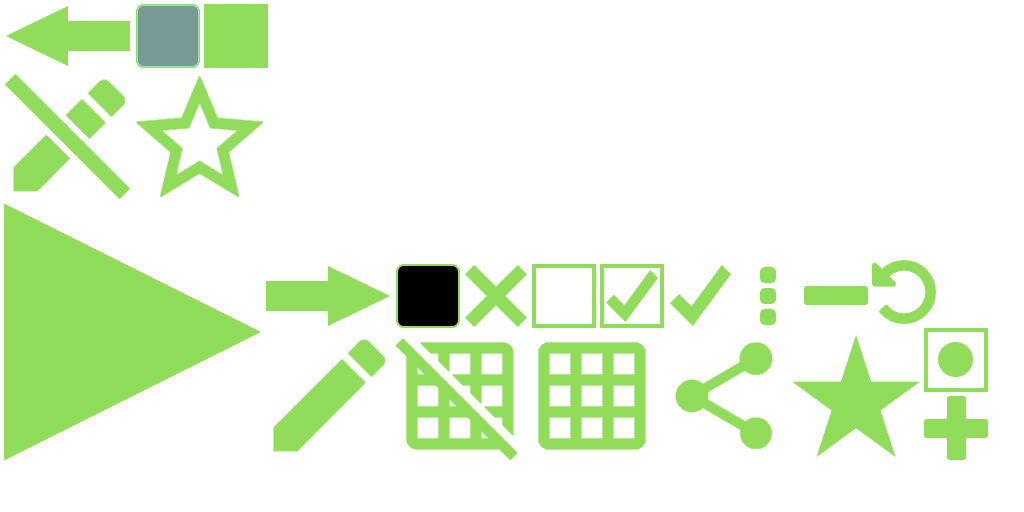
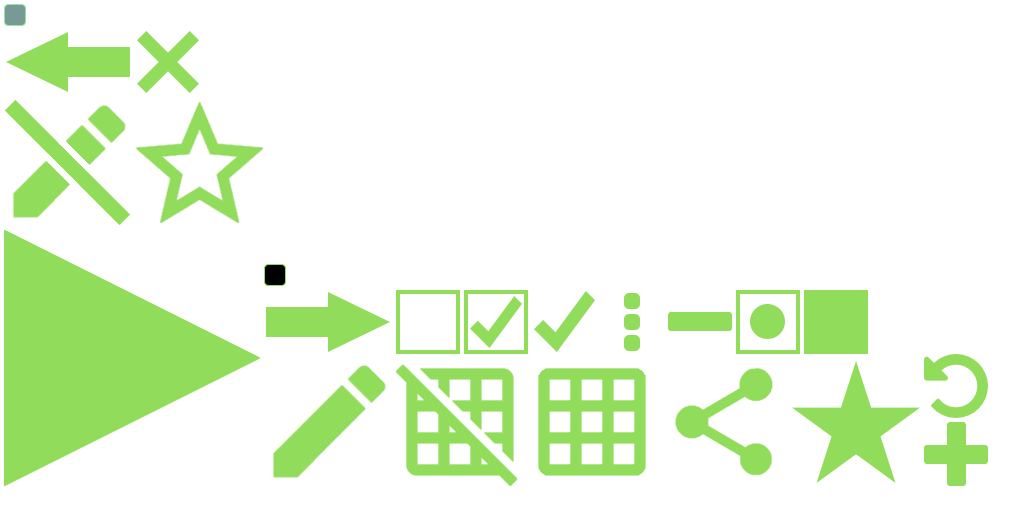
Fixeld some layout issues: smaller button nine patches, SettingsScreen now works properly with various display sizes, LevelSelector screen bug.

Changed region(s): [[0.0, 0.0, 0.9688, 0.9688], [0.5312, 0.7812, 0.625, 0.8125]]

diff --git a/core/src/com/mare5x/chargehockey/settings/SettingsScreen.java b/core/src/com/mare5x/chargehockey/settings/SettingsScreen.java
@@ -57,7 +57,7 @@ public class SettingsScreen extends ScrollableMenuScreen {
         trace_path_checkbox = new SettingCheckBox(game, "TRACE PUCK PATH", settings_file.getBoolean(SETTINGS_KEY.TRACE_PATH));
 
         add_back_button();
-        table.add().expand().colspan(2).row();
+        table.add().expand().row();
 
         game_speed_slider.add_to_table(table);
         charge_size_slider.add_to_table(table);
@@ -66,9 +66,9 @@ public class SettingsScreen extends ScrollableMenuScreen {
         forces_checkbox.add_to_table(table);
         trace_path_checkbox.add_to_table(table);
 
-        table.add(defaults_button).pad(15).minHeight(MIN_BUTTON_HEIGHT).colspan(2).center().fillX().row();
+        table.add(defaults_button).pad(15).minHeight(MIN_BUTTON_HEIGHT).center().fillX().row();
 
-        table.add().colspan(2).expand();
+        table.add().expand();
     }
 
     @Override
@@ -122,12 +122,14 @@ public class SettingsScreen extends ScrollableMenuScreen {
         dispose();
     }
 
-    /** Encapsulates a unified checkbox. Use with add_to_table(). DO NOT use it as an Actor. */
-    private static class SettingCheckBox extends Actor {
+    /** Encapsulates a unified checkbox. Use with add_to_table(). */
+    private static class SettingCheckBox extends Table {
         private final Button checkbox;
         private final TextButton text_button;
 
         SettingCheckBox(final ChargeHockeyGame game, String label, boolean checked) {
+            super();
+
             checkbox = new Button(game.skin, "checkbox");
             checkbox.setChecked(checked);
             checkbox.pad(10);
@@ -142,11 +144,14 @@ public class SettingsScreen extends ScrollableMenuScreen {
             });
 
             text_button.getLabel().setWrap(true);
+
+            add(text_button).space(15).minHeight(MIN_BUTTON_HEIGHT).center();
+            add(checkbox).space(15).size(MIN_BUTTON_HEIGHT).expandX().center();
         }
 
         void add_to_table(Table parent) {
-            parent.add(text_button).pad(15).minHeight(MIN_BUTTON_HEIGHT).width(Value.percentWidth(0.6f, parent)).center();
-            parent.add(checkbox).pad(15).size(MIN_BUTTON_HEIGHT).expandX().center().row();
+            getCell(text_button).width(Value.percentWidth(0.6f, parent));
+            parent.add(this).pad(15).fillX().expandX().row();
         }
 
         void set_checked(boolean checked) {
@@ -179,12 +184,16 @@ public class SettingsScreen extends ScrollableMenuScreen {
                     return false;
                 }
             });
+
+            add(label).space(15).fill().center();
+            add(slider).space(15).expandX().center();
         }
 
         void add_to_table(Table parent) {
-            add(label).pad(15).width(Value.percentWidth(0.4f, parent)).fill().center();
-            add(slider).pad(15).width(Value.percentWidth(0.4f, parent)).expandX().center();
-            parent.add(this).colspan(2).fillX().row();
+            getCell(label).width(Value.percentWidth(0.4f, parent));
+            getCell(slider).width(Value.percentWidth(0.4f, parent));
+
+            parent.add(this).pad(15).fillX().expandX().row();
         }
 
         void set_text(String text) {
@@ -240,6 +249,15 @@ public class SettingsScreen extends ScrollableMenuScreen {
                     scale_charge();
                 }
             });
+
+            // remove parent layout
+            clear();
+            reset();
+            remove();
+
+            add(label).space(15).fill().center();
+            add(slider).space(15).expandX().center();
+            add(charge).space(15).size(Value.percentHeight(1, slider)).expandX().center();
         }
 
         private void scale_charge() {
@@ -258,10 +276,9 @@ public class SettingsScreen extends ScrollableMenuScreen {
 
         @Override
         void add_to_table(Table parent) {
-            add(label).pad(15).width(Value.percentWidth(0.4f, parent)).fill().center();
-            add(slider).pad(15).width(Value.percentWidth(0.3f, parent)).expandX().center();
-            add(charge).pad(15).size(Value.percentHeight(1, slider)).expandX().center();
-            parent.add(this).colspan(2).fillX().row();
+            getCell(label).width(Value.percentWidth(0.4f, parent));
+            getCell(slider).width(Value.percentWidth(0.3f, parent));
+            parent.add(this).pad(15).fillX().expandX().row();
         }
     }
 }

diff --git a/core/src/com/mare5x/chargehockey/editor/FilePickerScreen.java b/core/src/com/mare5x/chargehockey/editor/FilePickerScreen.java
@@ -28,7 +28,7 @@ class FilePickerScreen extends BaseMenuScreen {
         this.parent_screen = parent_screen;
 
         final Label path_label = new Label("", game.skin);
-        path_label.setFontScale(0.75f);
+        path_label.setFontScale(0.81f);
         path_label.setWrap(true);
 
         final FilePicker file_picker;
@@ -80,10 +80,10 @@ class FilePickerScreen extends BaseMenuScreen {
         });
 
         add_back_button(2);
-        table.add(path_label).colspan(2).pad(15).width(Value.percentWidth(1, table)).row();
+        table.add(path_label).colspan(2).pad(15).width(Value.percentWidth(0.9f, table)).center().row();
         table.add(file_picker.get_display()).colspan(2).pad(15).expand().fill().row();
-        table.add(back_button).pad(15).minHeight(MIN_BUTTON_HEIGHT).fillX();
-        table.add(result_button).pad(15).minHeight(MIN_BUTTON_HEIGHT).expandX().fillX();
+        table.add(back_button).pad(15).height(MIN_BUTTON_HEIGHT).fillX();
+        table.add(result_button).pad(15).height(MIN_BUTTON_HEIGHT).expandX().fillX();
     }
 
     @Override

diff --git a/core/src/com/mare5x/chargehockey/game/GameScreen.java b/core/src/com/mare5x/chargehockey/game/GameScreen.java
@@ -140,7 +140,7 @@ public class GameScreen implements Screen {
 
         Table button_table = new Table();
         button_table.setBackground(game.skin.getDrawable("pixels/px_black"));
-        button_table.add(play_button).size(Value.percentHeight(0.5f, button_table)).uniform().pad(15);
+        button_table.add(play_button).size(Value.percentHeight(0.5f, button_table)).uniform().fill().pad(15);
         button_table.add(charge_pos_button).pad(15).uniform().fill();
         button_table.add(charge_neg_button).pad(15).uniform().fill();
 

diff --git a/core/src/com/mare5x/chargehockey/level/LevelSelectorScreen.java b/core/src/com/mare5x/chargehockey/level/LevelSelectorScreen.java
@@ -39,7 +39,7 @@ public class LevelSelectorScreen extends BaseMenuScreen {
         play_button.pad(10);
 
         add_back_button();
-        table.add(level_selector.get_selector_table()).pad(15).expand().fill().row();
+        table.add(level_selector.get_selector_table()).pad(5, 15, 5, 15).expand().fill().row();
         table.add(play_button).pad(15).size(Value.percentWidth(0.3f, table));
 
         if (level_selector.is_empty()) {
